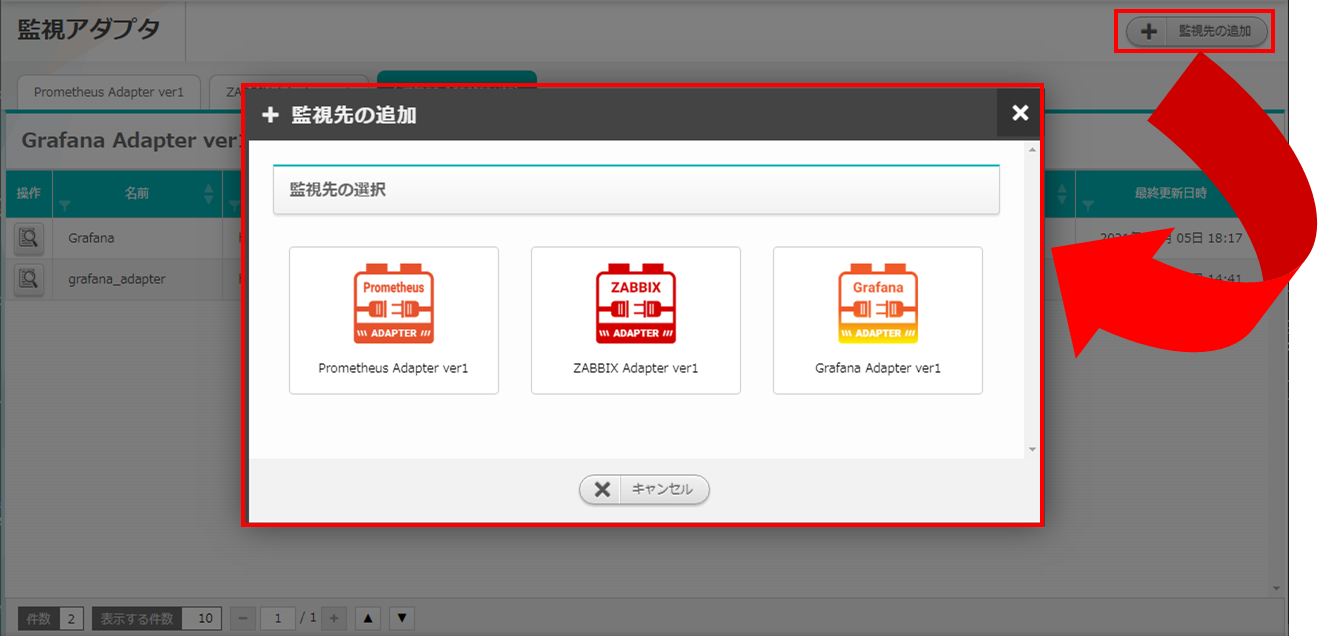
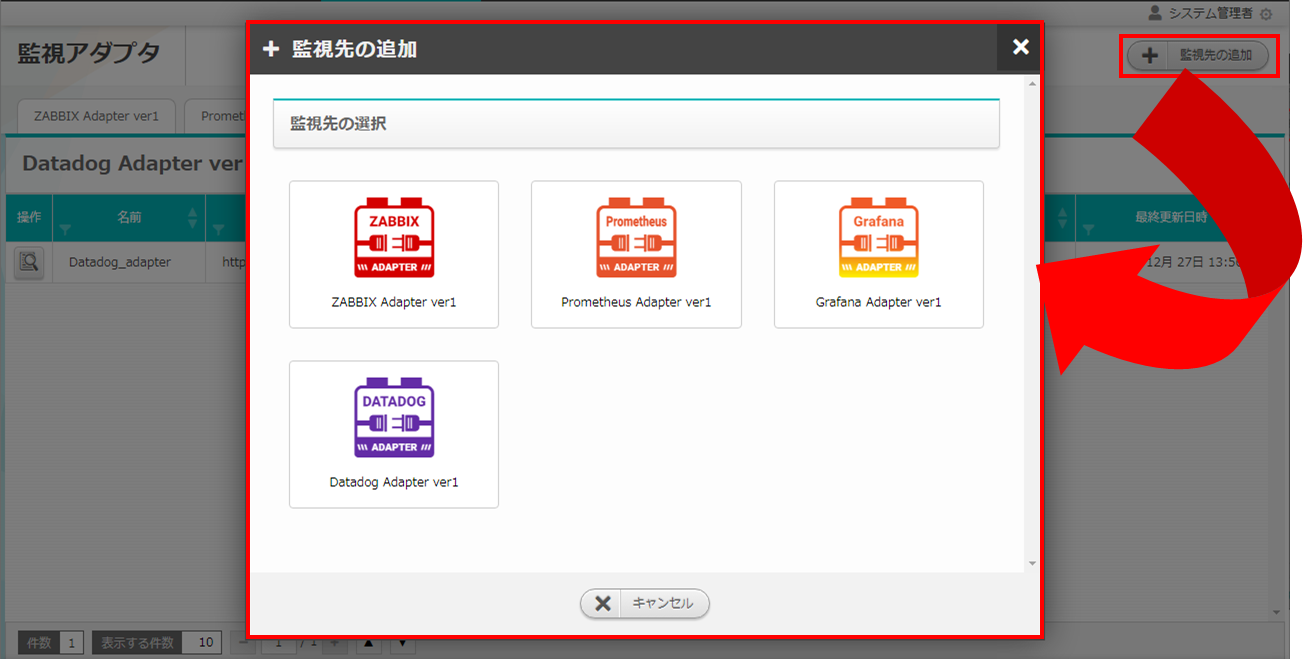
#1523 マニュアル(アダプタインストール) #1524 マニュアル (設定画面)

diff --git a/oase_documents/monitoring_adapter/03_messages.rst b/oase_documents/monitoring_adapter/03_messages.rst
@@ -116,4 +116,33 @@
    MOSJA26349,Grafana項目は128文字以内で入力してください。
    MOSJA26350,Grafana項目に使用できない文字が含まれています。
    MOSJA26351,Grafana項目に設定されていない文字が指定されています。
+   MOSJA26410,監視先が設定されていません。<br />権限がある場合は、[監視先の追加]をクリックすると設定編集できます。
+   MOSJA26412,ルールが削除されています。ルールを選び直してください。
+   MOSJA26417,データは既に削除されています。
+   MOSJA26418,必須項目(名前)が入力されていません。入力してください。
+   MOSJA26419,名前は64文字以内で入力してください。
+   MOSJA26420,名前に使用できない文字が含まれています。
+   MOSJA26421,必須項目(API KEY)が入力されていません。入力してください。
+   MOSJA26422,API KEYは48文字以内で入力してください。
+   MOSJA26423,API KEYに使用できない文字が含まれています。
+   MOSJA26424,APPLICATION KEYは48文字以内で入力してください。
+   MOSJA26425,必須項目(APPLICATION KEY）が入力されていません。入力してください。
+   MOSJA26426,APPLICATION KEYに使用できない文字が含まれています。
+   MOSJA26427,必須項目(ディシジョンテーブル名)が選択されていません。選択してください。
+   MOSJA26428,ディシジョンテーブル名が存在しません。ディシジョンテーブル画面からファイルをダウンロードし、ルールの設定を行ってください。
+   MOSJA26429,必須項目(Datadog項目)が入力されていません。入力してください。
+   MOSJA26430,Datadog項目は128文字以内で入力してください。
+   MOSJA26431,Datadog項目に使用できない文字が含まれています。
+   MOSJA26432,Datadog項目に設定されていない文字が指定されています。
+   MOSJA26433,他のDatadogアダプタ名と重複しています。修正してください。
+   MOSJA26434,URIとディシジョンテーブル名の組み合わせが重複しています。ディシジョンテーブル名を変更してください。
+   MOSJA26438,編集内容を保存します。よろしいですか？
+   MOSJA26439,削除すると設定されている監視基盤へのメッセージ取得を行わなくなります。保存してもよろしいですか？
+   MOSJA26440,データの削除に失敗しました。
+   MOSJA26441,必須項目(URI)が入力されていません。入力してください。
+   MOSJA26442,URIは512文字以内で入力してください。
+   MOSJA26443,URIに使用できない文字が含まれています。
+   MOSJA26444,保存されている条件名の数と入力されたDatadog項目の数が違います。もう一度お試しください。
+   MOSJA26445,プロキシは256文字以内で入力してください。
+   MOSJA26446,プロキシに使用できない文字が含まれています。
 

diff --git a/oase_documents/settings/installation_docker.rst b/oase_documents/settings/installation_docker.rst
@@ -12,9 +12,11 @@
 
 .. code-block:: rst
 
- # docker run --privileged --add-host=exastro-oase:127.0.0.1 -d -p 10443:443 --name exastro02 exastro/oase:x.x.x
+ # docker run --hostname="exastro-oase" --privileged --add-host=exastro-oase:127.0.0.1 -d -p 8080:80 -p 10443:443 --name exastro01 exastro/oase:x.x.x-ja
 
-.. note:: ポート番号(10443)とバージョン(x.x.x)は適宜変更してください。
+.. note:: 
+   | ポート番号(8080,10443)とバージョン(x.x.x)は適宜変更してください。
+   | 英語版をご利用になる場合は、バージョンに-enを付与してください。(x.x.x-en)
 
 コンテナ起動後に下記のURLにアクセスしてください。
 
